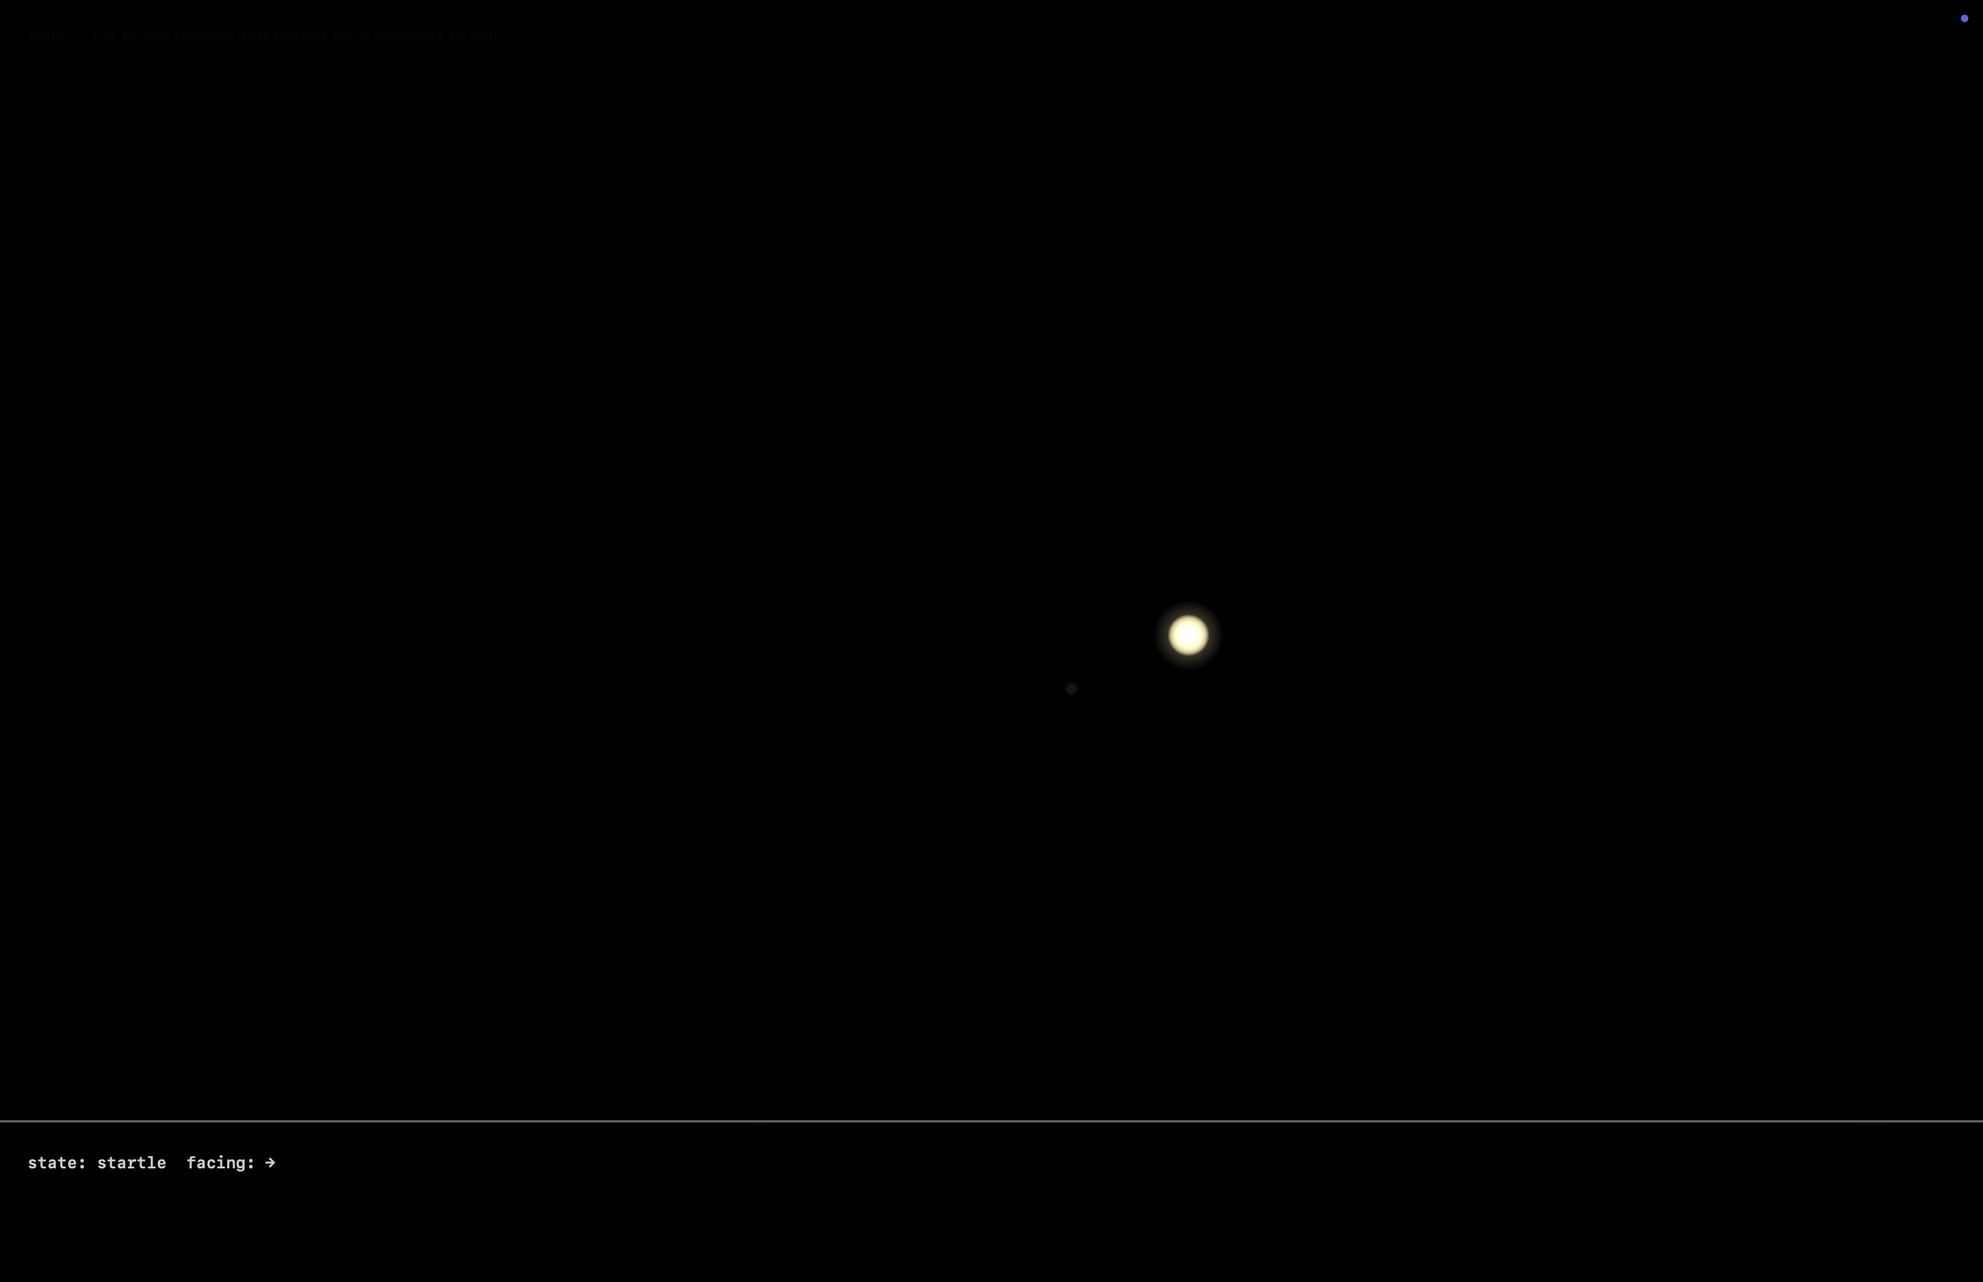
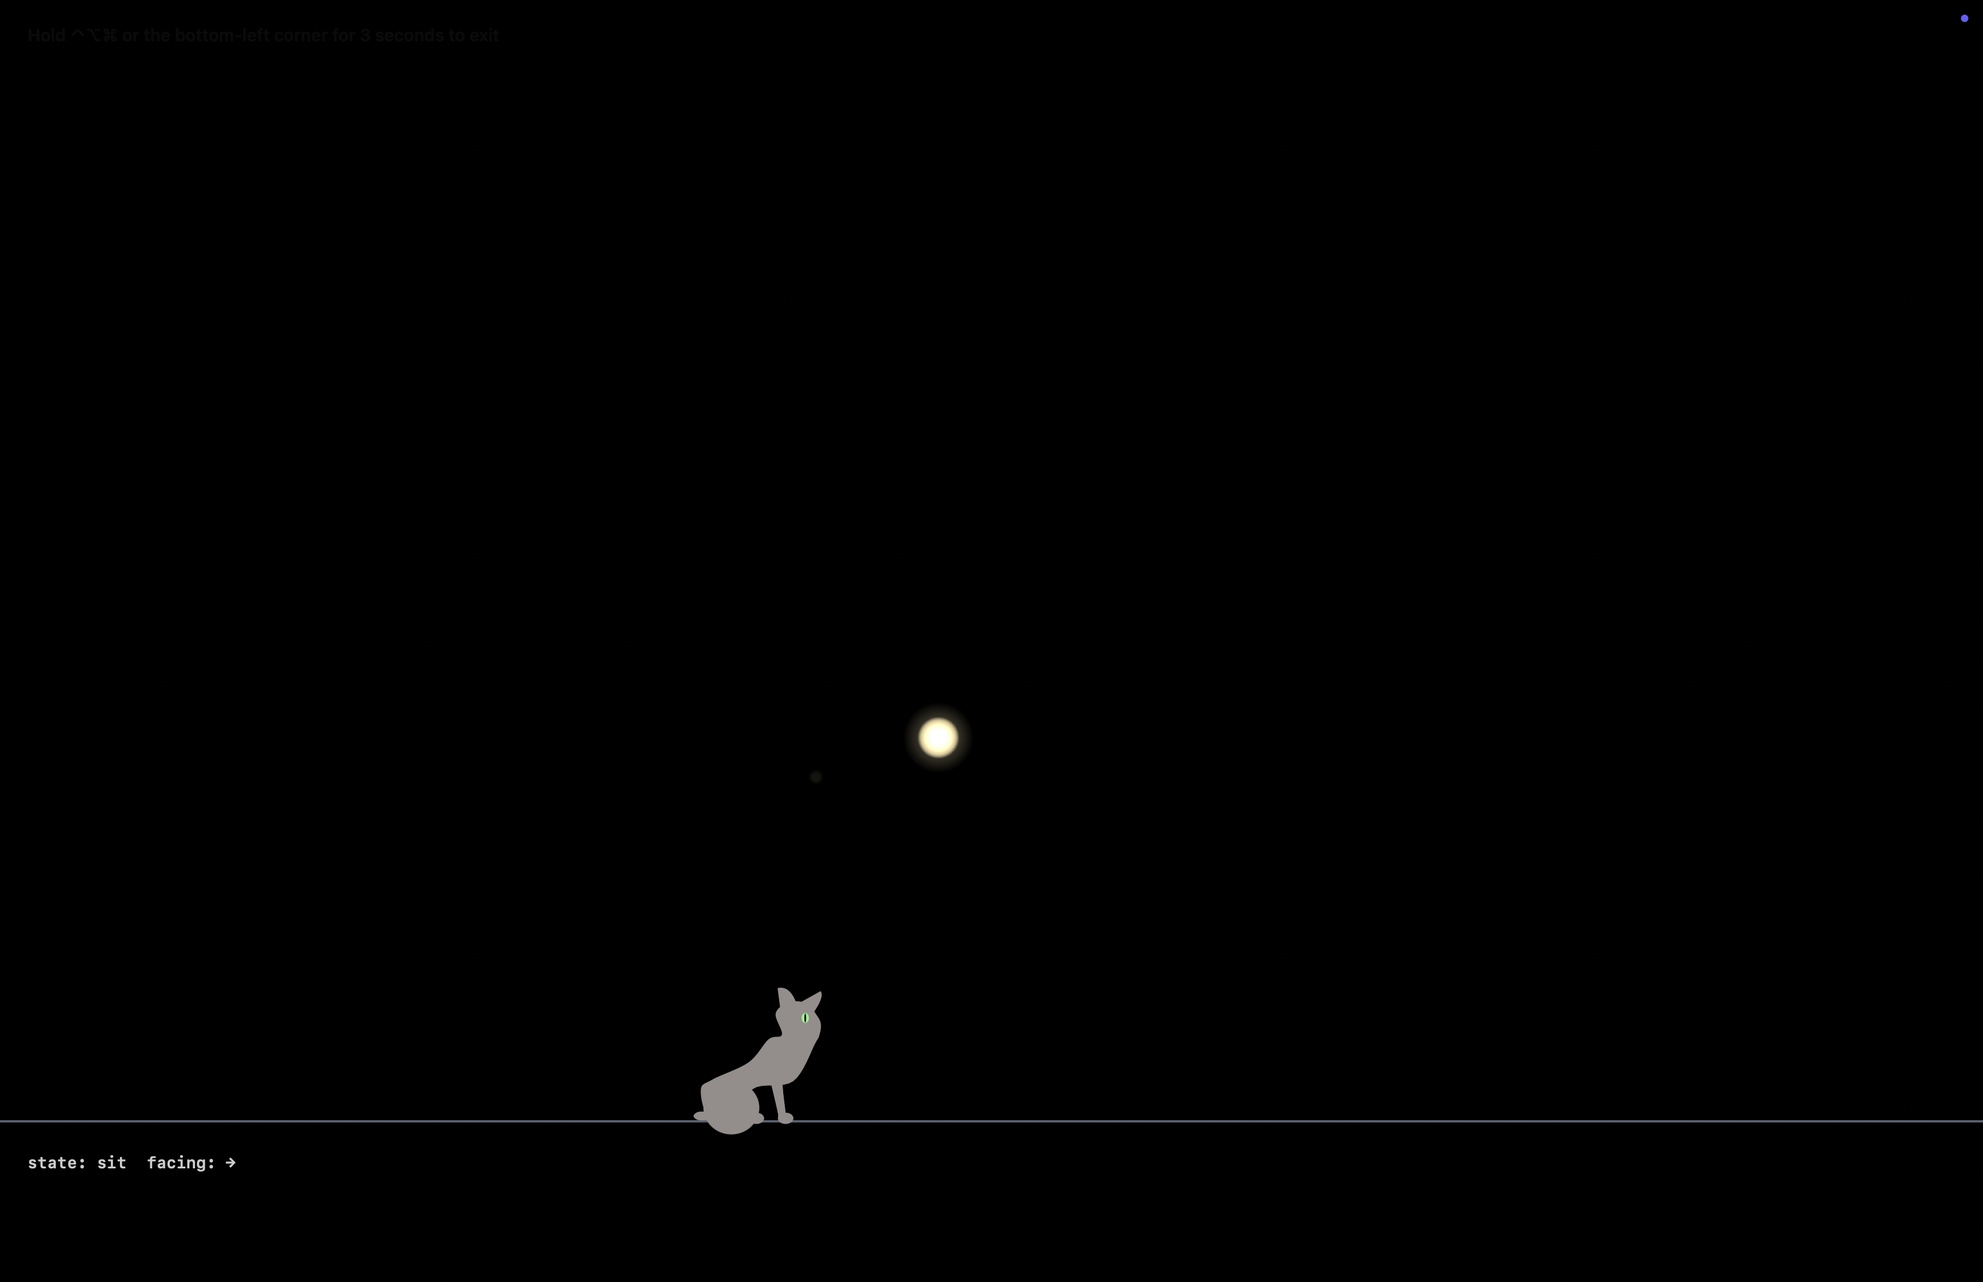
KiddyCat silhouette: professional spline rendering — one flowing outline
The silhouette was welded CoreGraphics primitives (circle skull + capsule
neck + quad-curve body + stroked-segment tail); every seam showed on the
union's edge. Rebuilt as continuous curvature:

- catmull(): Catmull-Rom -> cubic Bézier smoothing through control points
- ribbon(): filled tapered tube with per-point widths and a rounded tip
- Body + head are ONE closed smooth outline (17 pose-driven points, skull
  section riding a circle so the head stays round); ears overlay
- Legs are anatomical ribbons: wide thigh, forward knee, backward HOCK,
  slim pastern, rounded paw; play-bow reach wired to frontLegBend;
  airborne paws gather and reach in pounce
- Tail is one tapered ribbon over the verlet chain (no stroke bulges),
  root buried inside the rump so it always emerges seamlessly; streams
  back in flight instead of bottle-brushing
- Pose fixes found via the screenshot loop: level topline (rump no longer
  above withers), raised belly (real leg length), plumb chest, vertical
  sit neck with monotonic rise (killed the V-notch), sit paws under the
  chest, prouder idle tail carriage

Verified by capture: idle, walk (best-ever frame), sit, stalk, stretch.

diff --git a/Sources/kiddyproof/KiddyCat.swift b/Sources/kiddyproof/KiddyCat.swift
@@ -224,9 +224,10 @@ final class KiddyCat {
         switch state {
         case .stalk, .pounceWindup: return (-0.25, 2.6)   // low, twitchy
         case .walk, .trot: return (0.75, 1.0)             // raised, confident
-        case .startle, .pounceAir: return (1.1, 0)        // bottle-brush up
+        case .startle: return (1.1, 0)                    // bottle-brush up
+        case .pounceAir: return (0.2, 0)                  // streams back in flight
         case .sit, .groom: return (0.1, 0.4)              // wrapped low
-        default: return (0.4, 0.6)
+        default: return (0.55, 0.6)
         }
     }
 
@@ -234,9 +235,9 @@ final class KiddyCat {
         let pose = currentPose()
         let rootBack: CGFloat = style == .arcade
             ? (state == .sit || state == .groom ? 0.42 : 0.52)
-            : (state == .sit || state == .groom ? 0.62 : 0.92)
+            : (state == .sit || state == .groom ? 0.58 : 0.72)
         let root = NSPoint(x: pos.x - facing * size * rootBack,
-                           y: pos.y + size * pose.rumpHeight * (style == .arcade ? 0.72 : 1))
+                           y: pos.y + size * pose.rumpHeight * (style == .arcade ? 0.72 : 0.88))
         let seg = size * 0.15
         let (lift, sway) = tailMood()
         // Verlet integrate.
@@ -438,6 +439,54 @@ final class KiddyCat {
         ctx.restoreGState()
     }
 
+    // MARK: Silhouette spline helpers
+
+    // Smooth curve through points (Catmull-Rom converted to cubic Béziers) —
+    // professional silhouettes are continuous curvature, not welded primitives.
+    private static func catmull(_ pts: [CGPoint], closed: Bool) -> CGMutablePath {
+        let path = CGMutablePath()
+        let n = pts.count
+        guard n >= 3 else { return path }
+        path.move(to: pts[0])
+        let segs = closed ? n : n - 1
+        for i in 0..<segs {
+            let p0 = pts[closed ? (i - 1 + n) % n : max(0, i - 1)]
+            let p1 = pts[i]
+            let p2 = pts[(i + 1) % n]
+            let p3 = pts[closed ? (i + 2) % n : min(n - 1, i + 2)]
+            let c1 = CGPoint(x: p1.x + (p2.x - p0.x) / 6, y: p1.y + (p2.y - p0.y) / 6)
+            let c2 = CGPoint(x: p2.x - (p3.x - p1.x) / 6, y: p2.y - (p3.y - p1.y) / 6)
+            path.addCurve(to: p2, control1: c1, control2: c2)
+        }
+        if closed { path.closeSubpath() }
+        return path
+    }
+
+    // A filled tapered tube along a centerline: per-point widths, smooth sides,
+    // rounded tip. Replaces stroked segments (which bulge at width steps).
+    private static func ribbon(_ center: [CGPoint], _ widths: [CGFloat]) -> CGMutablePath {
+        let n = center.count
+        guard n >= 2 else { return CGMutablePath() }
+        var left = [CGPoint](); var right = [CGPoint]()
+        left.reserveCapacity(n); right.reserveCapacity(n)
+        for i in 0..<n {
+            let a = center[max(0, i - 1)], b = center[min(n - 1, i + 1)]
+            var tx = b.x - a.x, ty = b.y - a.y
+            let len = max(0.0001, sqrt(tx * tx + ty * ty))
+            tx /= len; ty /= len
+            let hw = widths[i] / 2
+            left.append(CGPoint(x: center[i].x - ty * hw, y: center[i].y + tx * hw))
+            right.append(CGPoint(x: center[i].x + ty * hw, y: center[i].y - tx * hw))
+        }
+        // Rounded tip: extend past the last point along the tangent.
+        let a = center[n - 2], b = center[n - 1]
+        var tx = b.x - a.x, ty = b.y - a.y
+        let len = max(0.0001, sqrt(tx * tx + ty * ty))
+        tx /= len; ty /= len
+        let tip = CGPoint(x: b.x + tx * widths[n - 1] * 0.55, y: b.y + ty * widths[n - 1] * 0.55)
+        return catmull(left + [tip] + right.reversed(), closed: true)
+    }
+
     private func drawSilhouette(into ctx: CGContext, origin: CGPoint, inkW w: CGFloat) {
         let pose = currentPose()
         let s = size
@@ -452,6 +501,7 @@ final class KiddyCat {
         @inline(__always) func P(_ x: CGFloat, _ y: CGFloat) -> CGPoint {
             CGPoint(x: gx + x * f * s, y: gy + y * s)
         }
+        func mapped(_ pts: [(CGFloat, CGFloat)]) -> [CGPoint] { pts.map { P($0.0, $0.1) } }
 
         // Anchor geometry.
         let stretch = pose.bodyStretch
@@ -462,118 +512,128 @@ final class KiddyCat {
         let headX = pose.headForward + stretch * 0.2
         let headY = pose.headHeight
         let stride = strideLength()
+        let sit = pose.sitFold
 
-        ctx.setLineCap(.round)
-        ctx.setLineJoin(.round)
         ctx.setAlpha(1)
         ctx.setBlendMode(.normal)
 
-        // --- Legs (far pair first, faded, phase-shifted) ---
+        // --- Legs: filled tapered limbs with real anatomy — wide thigh/shoulder,
+        // a hock (reverse heel) on the rear leg, slim pastern, rounded paw.
         func drawLeg(front: Bool, far: Bool) {
             let legIdx = (front ? 0 : 2) + (far ? 1 : 0)
-            let rootX = front ? shoulderX - 0.06 : rumpX + 0.1
-            let rootY = front ? shoulderY - 0.12 : rumpY - 0.1
+            let rootX = front ? shoulderX - 0.04 : rumpX + 0.12
+            let rootY = front ? shoulderY - 0.05 : rumpY - 0.02
             var footX = rootX
             var footY: CGFloat = 0
-            if pose.sitFold > 0.5 && !front {
-                // Folded haunch: foot tucks forward under the body.
-                footX = rootX + 0.34
-                footY = 0
+            if sit > 0.5 && !front {
+                footX = rootX + 0.36; footY = 0
+            } else if sit > 0.5 && front {
+                footX = rootX + sit * 0.12; footY = 0
             } else {
                 let (dx, lift) = footOffset(legIdx, stride: stride / s)
                 footX = rootX + dx
                 footY = lift / s
+                if front, pose.frontLegBend > 0 {
+                    // Play-bow: forepaws reach far forward along the ground.
+                    footX = rootX + pose.frontLegBend * 0.5
+                    footY = 0
+                }
                 if state == .pounceAir {
-                    footX = rootX + (front ? 0.35 : -0.3)
-                    footY = 0.28
+                    // Airborne: paws gathered near the body, reaching with the arc.
+                    footX = rootX + (front ? 0.52 : -0.42)
+                    footY = front ? 0.58 : 0.26
                 }
             }
-            // Two-segment limb via a quad control point: front knees bend backward,
-            // rear hocks bend forward (side-view cat anatomy).
-            let midX = (rootX + footX) / 2 + (front ? -0.1 : 0.14) * (1 - pose.sitFold)
-            let midY = (rootY + footY) / 2 + 0.02
-            let path = CGMutablePath()
-            path.move(to: P(rootX, rootY))
-            path.addQuadCurve(to: P(footX, footY + 0.03), control: P(midX, midY))
-            ctx.setStrokeColor((far ? farColor : bodyColor).cgColor)
-            ctx.setLineWidth(s * (front ? 0.23 : 0.26))
+            let color = far ? farColor : bodyColor
+            ctx.setFillColor(color.cgColor)
+            let path: CGMutablePath
+            if front {
+                // Shoulder → elbow (slightly back) → wrist → paw.
+                let pts = mapped([
+                    (rootX, rootY),
+                    (rootX * 0.45 + footX * 0.55 - 0.015, (rootY + footY) / 2 + 0.05),
+                    (footX - 0.005, footY + 0.14),
+                    (footX, footY + 0.05),
+                ])
+                path = Self.ribbon(pts, [s * 0.26, s * 0.16, s * 0.115, s * 0.11])
+            } else {
+                // Hip → knee (forward) → hock (heel points BACK — the cat cue) → paw.
+                let fold = 1 - sit
+                let pts = mapped([
+                    (rootX, rootY + 0.06),
+                    (rootX * 0.4 + footX * 0.6 + 0.07 * fold, (rootY + footY) / 2 + 0.04),
+                    (footX - 0.07 * fold, footY + 0.17),
+                    (footX, footY + 0.05),
+                ])
+                path = Self.ribbon(pts, [s * 0.40, s * 0.24, s * 0.125, s * 0.115])
+            }
             ctx.addPath(path)
-            ctx.strokePath()
-            // Paw.
-            ctx.setFillColor((far ? farColor : bodyColor).cgColor)
-            let pw = s * 0.125
-            let pp = P(footX + 0.05, footY + 0.045)
-            ctx.fillEllipse(in: CGRect(x: pp.x - pw, y: pp.y - pw * 0.8, width: pw * 2, height: pw * 1.6))
+            ctx.fillPath()
+            // Paw: a soft rounded oval, slightly forward.
+            let pw = s * 0.115
+            let pp = P(footX + 0.055, footY + 0.045)
+            ctx.fillEllipse(in: CGRect(x: pp.x - pw, y: pp.y - pw * 0.72, width: pw * 2, height: pw * 1.44))
         }
         drawLeg(front: true, far: true)
         drawLeg(front: false, far: true)
 
-        // Rear haunch (thigh mass) behind the body fill so the back leg reads
-        // muscled — a cat's rear is its engine, not a wire.
+        // --- Tail: one smooth tapered ribbon over the verlet chain — plush base,
+        // soft tip, no segment bulges.
         do {
-            let hq = P(rumpX + 0.12, rumpY * 0.55)
-            let hw = s * 0.34, hh = s * 0.42 * (1 - pose.sitFold * 0.15)
-            ctx.setFillColor(farColor.cgColor)
-            ctx.fillEllipse(in: CGRect(x: hq.x - hw, y: hq.y - hh, width: hw * 2, height: hh * 2))
+            let pts = tail.map { CGPoint(x: $0.x - origin.x, y: $0.y - origin.y) }
+            let n = pts.count
+            let widths = (0..<n).map { i -> CGFloat in
+                let t = CGFloat(i) / CGFloat(n - 1)
+                return s * (0.22 - 0.10 * t)
+            }
+            ctx.setFillColor(bodyColor.cgColor)
+            ctx.addPath(Self.ribbon(pts, widths))
+            ctx.fillPath()
         }
 
-        // --- Tail (behind the body) ---
-        ctx.setStrokeColor(bodyColor.cgColor)
-        for i in 1..<tail.count {
-            let t = CGFloat(i) / CGFloat(tail.count - 1)
-            // A cat's tail is FAT — thick at the base, still plush at the tip
-            // (a thin taper reads instantly as a rat).
-            ctx.setLineWidth(s * (0.24 - 0.09 * t))
-            ctx.beginPath()
-            ctx.move(to: CGPoint(x: tail[i - 1].x - origin.x, y: tail[i - 1].y - origin.y))
-            ctx.addLine(to: CGPoint(x: tail[i].x - origin.x, y: tail[i].y - origin.y))
-            ctx.strokePath()
+        // --- Body + head: ONE closed smooth outline from chin around the whole
+        // animal — continuous curvature is what separates a logo-quality
+        // silhouette from welded primitives. The skull section rides on a circle
+        // of radius R so the head stays guaranteed-round.
+        let hp = headPitch
+        let R: CGFloat = 0.35
+        let hcx = headX + 0.02, hcy = headY + 0.02 + hp * 0.22
+        // Head-relative point, gently rotated by head pitch.
+        let ca = cos(hp * 0.5), sa = sin(hp * 0.5)
+        func H(_ dx: CGFloat, _ dy: CGFloat) -> (CGFloat, CGFloat) {
+            (hcx + dx * ca - dy * sa, hcy + dx * sa + dy * ca)
         }
-
-        // --- Body silhouette: ONE smooth flowing outline (reference silhouettes are
-        // a single unbroken curve — multi-segment waviness reads hand-drawn-badly).
-        let body = CGMutablePath()
-        let spineTopY = max(shoulderY, rumpY) + 0.14 + pose.backArch
-        body.move(to: P(rumpX - 0.14, rumpY - 0.3))                        // under the tail
-        body.addQuadCurve(to: P((rumpX + shoulderX) / 2, spineTopY),       // rump → spine crest
-                          control: P(rumpX - 0.16, rumpY + 0.22 + pose.backArch * 0.6))
-        body.addQuadCurve(to: P(shoulderX + 0.14, shoulderY - 0.02),       // crest → neck base
-                          control: P(shoulderX + 0.06, shoulderY + 0.16 + pose.backArch * 0.4))
-        // Throat → deep chest → belly → close.
-        body.addQuadCurve(to: P(shoulderX + 0.1, shoulderY - 0.42),
-                          control: P(shoulderX + 0.2, shoulderY - 0.22))
-        body.addQuadCurve(to: P(rumpX + 0.14, rumpY - 0.32 - pose.sitFold * 0.08),
-                          control: P(0.08, shoulderY - 0.66 + pose.crouch * 0.12))
-        body.closeSubpath()
+        let spineTopY = (shoulderY + rumpY) / 2 + 0.17 + pose.backArch
+        let bellyY = shoulderY - 0.50 + pose.crouch * 0.22
+        var outline: [(CGFloat, CGFloat)] = []
+        outline.append(H(R * 0.55, -R * 0.98))                              // under chin
+        outline.append((shoulderX + 0.14 + sit * 0.11, shoulderY - 0.34 - sit * 0.04)) // chest
+        outline.append(((shoulderX + rumpX) / 2 + 0.06, bellyY))            // belly
+        outline.append((rumpX + 0.30, rumpY - 0.38 - sit * 0.10))           // groin / thigh front
+        outline.append((rumpX - 0.16, rumpY - 0.30 - sit * 0.12))           // under tail
+        outline.append((rumpX - 0.24 - sit * 0.06, rumpY + 0.02))           // rump back
+        outline.append((rumpX - 0.12, rumpY + 0.18 + pose.backArch * 0.5))  // rump top
+        outline.append(((rumpX + shoulderX) / 2, spineTopY))                // spine crest
+        outline.append((shoulderX - 0.02 - sit * 0.10, shoulderY + 0.19 + sit * 0.06 + pose.backArch * 0.3)) // withers
+        outline.append((shoulderX + 0.16 - sit * 0.08, shoulderY + 0.06 + sit * 0.26)) // neck top
+        outline.append(H(-R * 0.72, R * 0.72))                              // crown back
+        outline.append(H(-R * 0.05, R * 1.02))                              // crown top
+        outline.append(H(R * 0.66, R * 0.76))                               // forehead
+        outline.append(H(R * 0.95, R * 0.12))                               // nose bridge
+        outline.append(H(R * 1.00, -R * 0.30))                              // muzzle / nose
+        outline.append(H(R * 0.80, -R * 0.72))                              // chin
         ctx.setFillColor(bodyColor.cgColor)
-        ctx.addPath(body)
+        ctx.addPath(Self.catmull(mapped(outline), closed: true))
         ctx.fillPath()
 
-        // --- Head group: a GUARANTEED-round skull (filled circle), two big triangle
-        // ears, and a neck capsule joining it to the shoulders — built the way the
-        // reference silhouettes are, instead of fighting one giant outline path.
-        let hp = headPitch
-        let R: CGFloat = 0.35                          // skull radius (size units)
-        let hcx = headX + 0.02, hcy = headY + 0.02 + hp * 0.22
-        let headC = P(hcx, hcy)
-
-        // Neck capsule.
-        ctx.setStrokeColor(bodyColor.cgColor)
-        ctx.setLineWidth(s * 0.4)
-        ctx.beginPath()
-        ctx.move(to: P(shoulderX - 0.02, shoulderY - 0.14))
-        ctx.addLine(to: P(hcx - R * 0.3, hcy - R * 0.3))
-        ctx.strokePath()
-
-        // Ears BEHIND the skull circle so their bases are swallowed cleanly.
+        // Ears: filled triangles seated on the skull circle, drawn over the fill.
         let flick = earFlick * 0.1
-        let earLen = R * (0.62 + 0.5 * pose.earPerk)   // big ears — a cat signature
+        let earLen = R * (0.62 + 0.5 * pose.earPerk)
         func ear(baseA: CGFloat, tipA: CGFloat, tipLen: CGFloat) {
             let e = CGMutablePath()
             let a1 = baseA - 0.42, a2 = baseA + 0.42
             e.move(to: P(hcx + cos(a1) * R * 0.92, hcy + sin(a1) * R * 0.92))
             let tip = (x: hcx + cos(tipA) * (R * 0.75 + tipLen), y: hcy + sin(tipA) * (R * 0.75 + tipLen))
-            // Outer edge slightly convex, inner edge straight — a real ear, not a spike.
             e.addQuadCurve(to: P(tip.x, tip.y),
                            control: P(hcx + cos(a1 + 0.16) * (R + tipLen * 0.7), hcy + sin(a1 + 0.16) * (R + tipLen * 0.7)))
             e.addLine(to: P(hcx + cos(a2) * R * 0.92, hcy + sin(a2) * R * 0.92))
@@ -581,22 +641,13 @@ final class KiddyCat {
             ctx.addPath(e)
             ctx.fillPath()
         }
-        ctx.setFillColor(bodyColor.cgColor)
         ear(baseA: 2.0, tipA: 2.05 + flick, tipLen: earLen)        // rear ear
         ear(baseA: 1.05, tipA: 0.95, tipLen: earLen)               // front ear
 
-        // Skull.
-        let Rs = R * s
-        ctx.fillEllipse(in: CGRect(x: headC.x - Rs, y: headC.y - Rs, width: Rs * 2, height: Rs * 2))
-        // A soft cheek/muzzle hint: one small ellipse low-front on the circle.
-        let mzR = Rs * 0.34
-        let mz = P(hcx + R * 0.78 * 1.0, hcy - R * 0.28)
-        ctx.fillEllipse(in: CGRect(x: mz.x - mzR, y: mz.y - mzR * 0.8, width: mzR * 2, height: mzR * 1.6))
-
-        // Sitting haunch: a rounded thigh mass over the folded rear.
-        if pose.sitFold > 0.15 {
+        // Sitting: haunch mass over the folded rear, blended into the outline.
+        if sit > 0.15 {
             let hx = P(rumpX + 0.16, rumpY * 0.45)
-            let hr = s * 0.42 * pose.sitFold
+            let hr = s * 0.42 * sit
             ctx.fillEllipse(in: CGRect(x: hx.x - hr, y: hx.y - hr * 0.95, width: hr * 2, height: hr * 1.9))
         }
 
@@ -607,7 +658,7 @@ final class KiddyCat {
         // --- Eye (with blink) ---
         let eyeOpen = 1 - blinkPhase
         if eyeOpen > 0.08 {
-            let e = P(headX + 0.02 + 0.13, headY + 0.06 + headPitch * 0.24)
+            let e = P(hcx + 0.13, hcy + 0.04 + hp * 0.1)
             let ew = s * 0.055, eh = s * 0.075 * eyeOpen
             ctx.setFillColor(NSColor(srgbRed: 0.55, green: 0.95, blue: 0.55, alpha: 0.95).cgColor)
             ctx.fillEllipse(in: CGRect(x: e.x - ew, y: e.y - eh, width: ew * 2, height: eh * 2))
